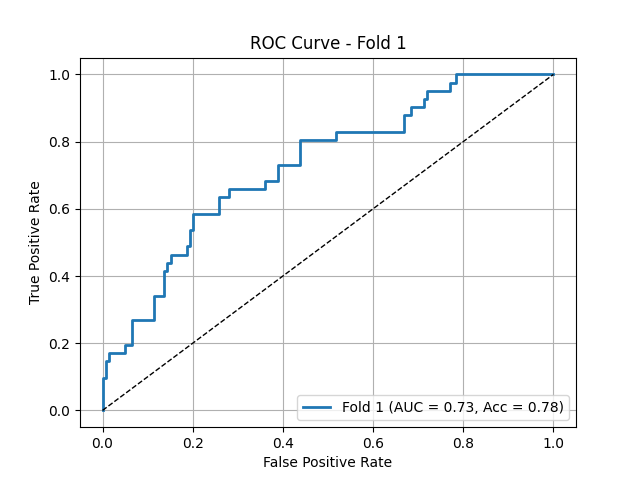
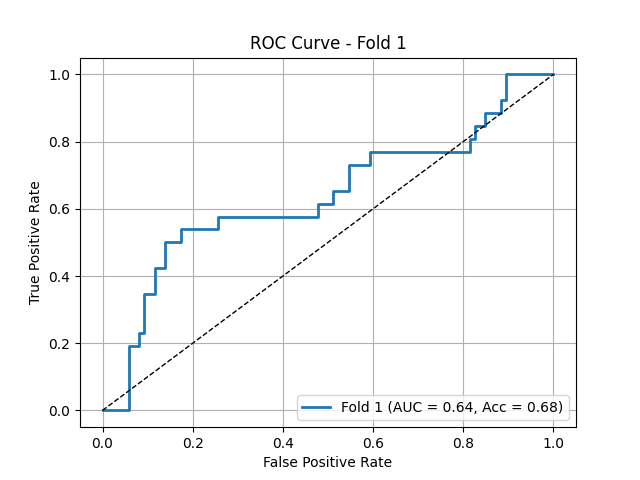
augmentation enhanced

diff --git a/dataset_washu2.py b/dataset_washu2.py
@@ -82,8 +82,8 @@ train_transform = A.Compose([
     A.RandomRotate90(p=0.5),
 
 	A.ShiftScaleRotate(shift_limit=0.005, scale_limit=0.005, rotate_limit=10, border_mode=0, value=0, p=0.5), 
-    A.ElasticTransform(alpha = 0.3, sigma = 250, p=0.5),
-    A.GridDistortion(distort_limit=(-0.1,0.1), p=0.5),
+    A.ElasticTransform(alpha = 5, sigma = 250, p=0.5),
+    A.GridDistortion(distort_limit=(-0.2,0.2), p=0.5),
 	A.GaussNoise(std_range=(0.02, 0.1), p=0.9),
     A.RandomBrightnessContrast(brightness_limit=(0, 0.01), contrast_limit=(0, 0.01), p=0.5),
     # #A.CLAHE(clip_limit=.5, tile_grid_size=(8, 8), p=0.5),
